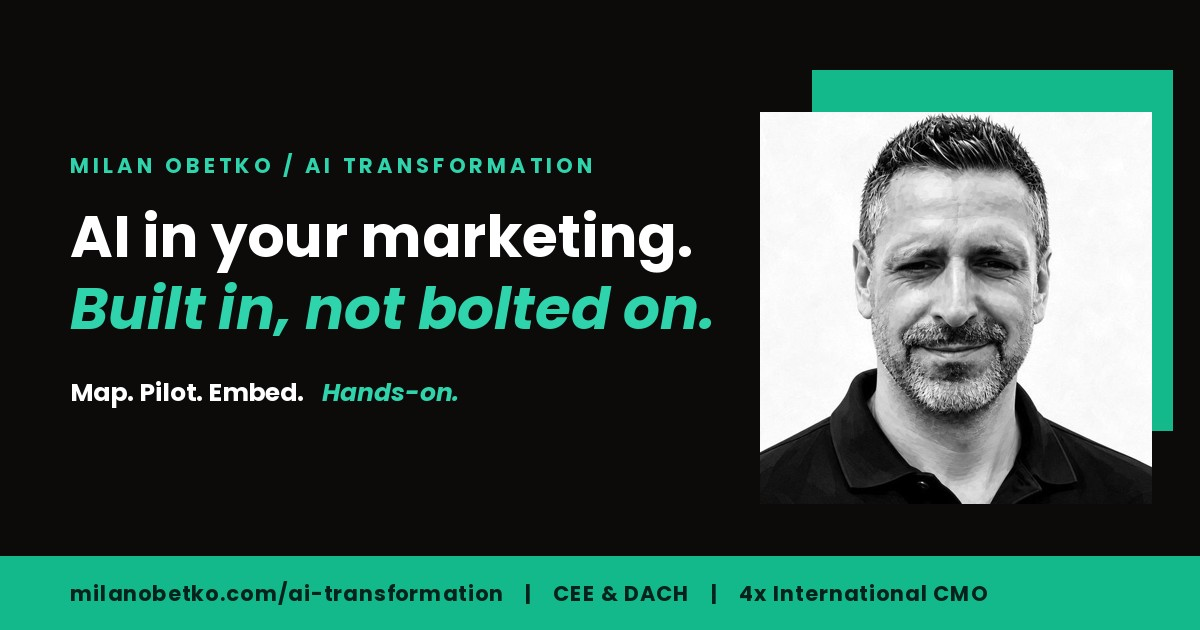
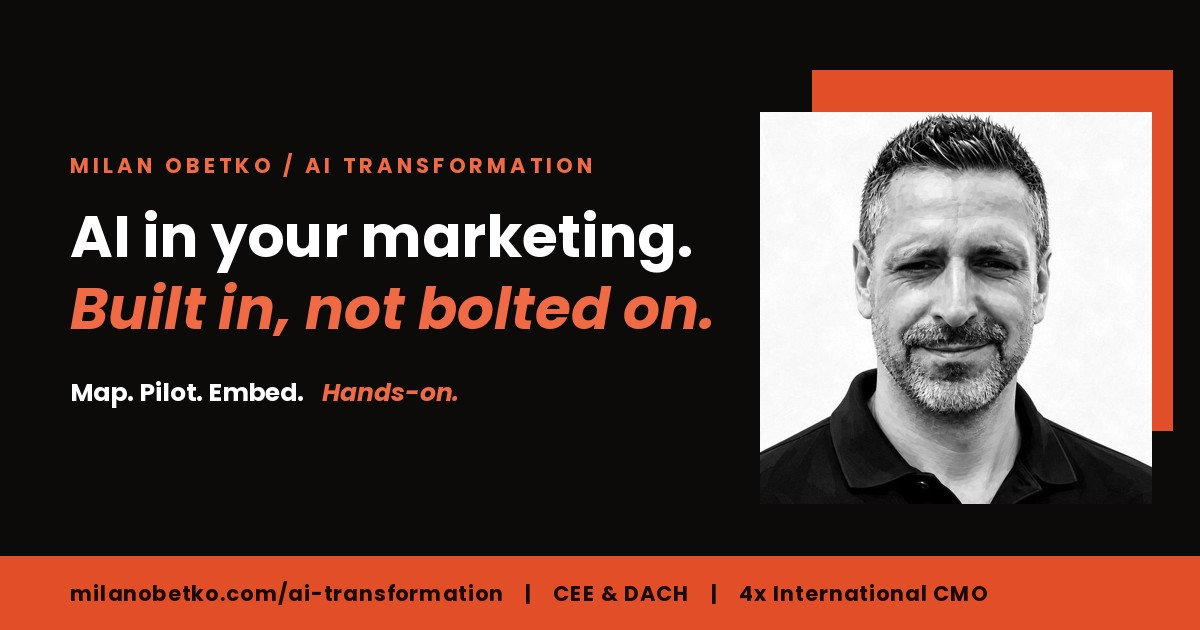
Recolor /ai-transformation to vivid orange-red (own shade vs ai-advisory)
Claude-Session: https://claude.ai/code/session_01ANGM1QMKMLK3w66FaUguEb

diff --git a/ai-transformation/index.html b/ai-transformation/index.html
@@ -147,7 +147,7 @@ h2{margin:0;font-size:clamp(36px,5vw,66px);line-height:.98;font-weight:800;lette
 @media (max-width:900px){.cards.three{grid-template-columns:1fr}}
 @media (min-width:901px){.cards.three .card .pr{flex-direction:column;align-items:flex-start;gap:8px}}
 /* AI Implementation band: the one build offer, set apart from the three advisory cards by scale. Same black ground; orange only on the rebuilt-process bar and the action. */
-.impl{margin-top:clamp(28px,4vw,40px);border:1px solid #5B564E;background:radial-gradient(90% 120% at 100% 0%,rgba(19,185,138,.13),rgba(19,185,138,0) 60%),#11100F;color:var(--white)}
+.impl{margin-top:clamp(28px,4vw,40px);border:1px solid #5B564E;background:radial-gradient(90% 120% at 100% 0%,rgba(226,78,40,.13),rgba(226,78,40,0) 60%),#11100F;color:var(--white)}
 .impl-grid{display:grid;grid-template-columns:minmax(0,1fr) minmax(0,1fr);gap:clamp(32px,6vw,88px);padding:clamp(28px,4.4vw,60px) clamp(24px,4.4vw,60px) clamp(28px,4vw,52px);align-items:end}
 .impl-txt{display:flex;flex-direction:column;gap:14px;min-width:0}
 .impl .k{margin:0;font-size:13px;font-weight:800;letter-spacing:.16em;text-transform:uppercase;color:var(--t3)}
@@ -162,8 +162,8 @@ h2{margin:0;font-size:clamp(36px,5vw,66px);line-height:.98;font-weight:800;lette
 .impl-fig .bar.now{background:#D9D4CA}
 .impl-fig .bar.ai{background:linear-gradient(var(--line),var(--line)) left bottom/100% 1px no-repeat}
 .impl-fig .ai-in{display:flex;width:50%;height:100%}
-.impl-fig .ai-in .s{flex:0 0 20%;background:var(--acc);box-shadow:0 0 26px rgba(19,185,138,.7),0 0 70px rgba(19,185,138,.35)}
-.impl-fig .ai-in .r{flex:1;background:repeating-linear-gradient(-45deg,rgba(19,185,138,.75) 0 2px,transparent 2px 8px)}
+.impl-fig .ai-in .s{flex:0 0 20%;background:var(--acc);box-shadow:0 0 26px rgba(226,78,40,.7),0 0 70px rgba(226,78,40,.35)}
+.impl-fig .ai-in .r{flex:1;background:repeating-linear-gradient(-45deg,rgba(226,78,40,.75) 0 2px,transparent 2px 8px)}
 .impl-fig .ticks{display:flex;justify-content:space-between;width:40%;margin-left:10%;font-size:15px;font-weight:800;color:var(--acct)}
 .impl-fig figcaption{margin-top:6px;padding-top:16px;border-top:1px solid var(--line);font-size:18px;line-height:1.45;font-weight:600;text-wrap:balance}
 .impl.go .ai-in{animation:implshrink 1.5s cubic-bezier(.2,.7,.1,1) .25s backwards}
@@ -221,7 +221,7 @@ footer a:hover{color:var(--acct)}
 .lp-canvas .d{font-size:23px;color:var(--t2)}
 .lp-canvas .p{margin-top:6px;display:inline-block;background:var(--acc);font-size:20px;font-weight:600;padding:7px 14px}
 .lp-canvas .hub{position:absolute;left:810px;top:435px;width:300px;height:300px;border-radius:50%;background:var(--acc);display:flex;flex-direction:column;align-items:center;justify-content:center;text-align:center;padding:30px}
-.lp-canvas .hub .h1{font-size:20px;font-weight:800;letter-spacing:.16em;text-transform:uppercase;color:#06241D}
+.lp-canvas .hub .h1{font-size:20px;font-weight:800;letter-spacing:.16em;text-transform:uppercase;color:#2E0F06}
 .lp-canvas .hub .h2{margin-top:8px;font-size:40px;line-height:1.02;font-weight:800;letter-spacing:-.02em}
 .lp-canvas .hub .h3{margin-top:10px;font-size:21px;line-height:1.25}
 .lp-m{display:none}
@@ -230,7 +230,7 @@ footer a:hover{color:var(--acct)}
 @media (max-width:800px){
  .lp-stage{display:none}.lp-m{display:block;margin-top:28px}
  .hubm{background:var(--acc);padding:22px 22px 24px}
- .hubm .h1{font-size:13px;font-weight:800;letter-spacing:.16em;text-transform:uppercase;color:#06241D}
+ .hubm .h1{font-size:13px;font-weight:800;letter-spacing:.16em;text-transform:uppercase;color:#2E0F06}
  .hubm .h2{margin-top:6px;font-size:32px;line-height:1.05;font-weight:800;letter-spacing:-.02em}
  .hubm .h3{margin-top:6px;font-size:17px}
  .lp-m ol{list-style:none;margin:0;padding:0;position:relative}
@@ -246,7 +246,7 @@ footer a:hover{color:var(--acct)}
 </style>
 <style>
 /* Theme: warm black, bone type, one orange. Orange marks the single focal thing in each view (the action, the loop's centre, the rebuilt process); everything else stays bone on black. */
-:root{--acc:#13B98A;--acct:#2FD3AC;--on:#05231C;--ink:#0C0B0A;--line:#39352F}
+:root{--acc:#E24E28;--acct:#F06B45;--on:#1A0A05;--ink:#0C0B0A;--line:#39352F}
 .eyebrow{color:var(--t3)}
 .card{background:#11100F;color:var(--white);border:1px solid var(--line)}
 .card .k{color:var(--t3)}
@@ -254,10 +254,10 @@ footer a:hover{color:var(--acct)}
 .card .pr{border-top:1px solid var(--line)}
 .lp-canvas .k,.lp-m .c .k{color:var(--t3)}
 .lp-canvas .p,.lp-m .c .p{background:transparent;box-shadow:inset 0 0 0 1.5px #6B655C;color:var(--t2)}
-.lp-canvas .hub{color:var(--on);box-shadow:0 0 90px rgba(19,185,138,.38)}
+.lp-canvas .hub{color:var(--on);box-shadow:0 0 90px rgba(226,78,40,.38)}
 .hubm{color:var(--on)}
 .lp-m ol::before{background:#6B655C}
-.contact{background:radial-gradient(70% 140% at 50% 0%,rgba(19,185,138,.16),rgba(19,185,138,0) 62%),#11100F;color:var(--white);border-top:1px solid var(--line)}
+.contact{background:radial-gradient(70% 140% at 50% 0%,rgba(226,78,40,.16),rgba(226,78,40,0) 62%),#11100F;color:var(--white);border-top:1px solid var(--line)}
 .contact .btn-white{background:var(--acc);color:var(--on)}
 .contact .btn-white:hover{filter:brightness(1.12)}
 /* Why now: a market drawn as a slowly turning network. Companies switch to orange one after another along their links; the one marked You stays bone. */
@@ -269,7 +269,7 @@ footer a:hover{color:var(--acct)}
 .now-leg{list-style:none;margin:26px 0 0;padding:0;display:flex;flex-wrap:wrap;gap:10px 28px;font-size:16px;font-weight:600;color:var(--t2)}
 .now-leg li{display:flex;align-items:center;gap:10px}
 .now-leg i{width:11px;height:11px;border-radius:50%;background:#D9D4CA}
-.now-leg .a i{background:var(--acc);box-shadow:0 0 12px rgba(19,185,138,.85)}
+.now-leg .a i{background:var(--acc);box-shadow:0 0 12px rgba(226,78,40,.85)}
 @media (max-width:900px){.now-grid{grid-template-columns:1fr}.now-grid .lead{max-width:none}}
 /* Race: one process today vs the same process with AI, run in the same time. */
 .race .fs{margin:-8px 0 6px;font-size:16px;line-height:1.45;color:var(--t2)}
@@ -282,19 +282,19 @@ footer a:hover{color:var(--acct)}
 .race .ai .cnt b{color:var(--acct)}
 .race .track{position:relative;height:12px;background:#26231F;overflow:hidden}
 .race .fill{position:absolute;left:0;top:0;bottom:0;width:0;background:#D9D4CA}
-.race .ai .fill{background:var(--acc);box-shadow:0 0 18px rgba(19,185,138,.75)}
+.race .ai .fill{background:var(--acc);box-shadow:0 0 18px rgba(226,78,40,.75)}
 .race .sq{display:flex;flex-wrap:wrap;gap:6px;min-height:14px}
 .race .sq i{width:14px;height:14px;border:1.5px solid #5B564E;transition:background .2s,border-color .2s,box-shadow .2s}
 .race .sq i.on{background:#D9D4CA;border-color:#D9D4CA}
-.race .ai .sq i.on{background:var(--acc);border-color:var(--acc);box-shadow:0 0 10px rgba(19,185,138,.85)}
+.race .ai .sq i.on{background:var(--acc);border-color:var(--acc);box-shadow:0 0 10px rgba(226,78,40,.85)}
 .race .spd{display:flex;align-items:center;gap:14px;margin-top:2px;font-size:15px;font-weight:700;color:var(--t2)}
 .race .spd input{flex:1;min-width:0;accent-color:var(--acc);height:28px;cursor:pointer}
 .race .spd output{min-width:3.2ch;font-size:18px;font-weight:800;color:var(--acct);text-align:right}
 /* Motion. Three moving things, each tied to what the section says: light across the top of the page, the exponential curve drawing itself next to the sentence that claims it, and a point travelling the loop. They run regardless of the reduced-motion setting, at the owner's request. */
 .hero{position:relative;overflow:hidden}
-.hero::before{content:"";position:absolute;left:-25%;right:-25%;top:-300px;height:440px;background:radial-gradient(50% 50% at 50% 50%,rgba(19,185,138,.42),rgba(19,185,138,0) 70%);pointer-events:none;animation:heroglow 16s ease-in-out infinite alternate}
+.hero::before{content:"";position:absolute;left:-25%;right:-25%;top:-300px;height:440px;background:radial-gradient(50% 50% at 50% 50%,rgba(226,78,40,.42),rgba(226,78,40,0) 70%);pointer-events:none;animation:heroglow 16s ease-in-out infinite alternate}
 @keyframes heroglow{from{transform:translateX(-22%)}to{transform:translateX(22%) scaleX(1.2)}}
-.hero::after{content:"";position:absolute;left:0;top:-52px;width:72%;height:104px;background:radial-gradient(50% 50% at 50% 50%,rgba(79,224,189,.9),rgba(19,185,138,.5) 32%,rgba(19,185,138,0) 70%);filter:blur(7px);pointer-events:none;animation:herostreak 14s ease-in-out infinite alternate}
+.hero::after{content:"";position:absolute;left:0;top:-52px;width:72%;height:104px;background:radial-gradient(50% 50% at 50% 50%,rgba(255,138,94,.9),rgba(226,78,40,.5) 32%,rgba(226,78,40,0) 70%);filter:blur(7px);pointer-events:none;animation:herostreak 14s ease-in-out infinite alternate}
 @keyframes herostreak{from{transform:translateX(-25%)}to{transform:translateX(64%)}}
 .hero .wrap{position:relative;z-index:1}
 /* Hero terrain: the company drawn as a landscape of its processes. Peaks rise and fall; the orange point keeps moving to the highest one, which is what the offer does: find where AI pays off most. */
@@ -310,34 +310,34 @@ footer a:hover{color:var(--acct)}
 .effc .ln{fill:none;stroke:#D9D4CA;stroke-width:2;stroke-linecap:round}
 .effc .ex{fill:none;stroke:var(--acc);stroke-width:3;stroke-linecap:round;stroke-linejoin:round}
 .effc .eg{fill:none;stroke:var(--acc);stroke-width:12;stroke-linecap:round;stroke-linejoin:round;opacity:.28;filter:blur(8px)}
-.effc .ed{fill:var(--acc);filter:drop-shadow(0 0 10px rgba(19,185,138,.95)) drop-shadow(0 0 26px rgba(19,185,138,.6))}
+.effc .ed{fill:var(--acc);filter:drop-shadow(0 0 10px rgba(226,78,40,.95)) drop-shadow(0 0 26px rgba(226,78,40,.6))}
 .effc.done .ed{animation:effpulse 3.2s ease-in-out infinite}
-.effc .ga{fill:#13B98A;opacity:0}
-.effc .pg{fill:none;stroke:#4FE0BD;stroke-width:12;stroke-linecap:round;filter:blur(7px);opacity:0}
-.effc .pu{fill:none;stroke:#BFF3E6;stroke-width:3.5;stroke-linecap:round;opacity:0}
+.effc .ga{fill:#E24E28;opacity:0}
+.effc .pg{fill:none;stroke:#FF8A5E;stroke-width:12;stroke-linecap:round;filter:blur(7px);opacity:0}
+.effc .pu{fill:none;stroke:#FFC3A8;stroke-width:3.5;stroke-linecap:round;opacity:0}
 .effc .sl{fill:none;stroke:rgba(236,232,225,.55);stroke-width:1;stroke-dasharray:3 4;opacity:0;transition:opacity .25s}
-.effc .sa{fill:var(--acc);filter:drop-shadow(0 0 10px rgba(19,185,138,.95));opacity:0;transition:opacity .25s}
+.effc .sa{fill:var(--acc);filter:drop-shadow(0 0 10px rgba(226,78,40,.95));opacity:0;transition:opacity .25s}
 .effc .sb{fill:#ECE8E1;opacity:0;transition:opacity .25s}
 .effc .gt{fill:#FFFFFF;font:700 15px Jost,sans-serif;text-anchor:end;opacity:0}
 @media (pointer:fine){.eff{cursor:crosshair}}
 @media (max-width:900px){.effc{touch-action:pan-y}}
-@keyframes effpulse{50%{filter:drop-shadow(0 0 16px rgba(19,185,138,1)) drop-shadow(0 0 44px rgba(19,185,138,.85))}}
+@keyframes effpulse{50%{filter:drop-shadow(0 0 16px rgba(226,78,40,1)) drop-shadow(0 0 44px rgba(226,78,40,.85))}}
 .effc .el{position:absolute;font-size:15px;font-weight:700;letter-spacing:.01em;white-space:nowrap;opacity:0;transition:opacity .6s ease}
 .effc.done .el{opacity:1}
 .effc .l1{right:0;color:var(--t3)}
 .effc .l2{right:26px;top:13px;color:var(--acct)}
 @media (max-width:900px){.eff p{padding-bottom:0}.effc{position:relative;left:auto;right:auto;height:190px;margin-top:22px}}
-.lp-canvas .trav{transform-origin:960px 585px;animation:lpspin 20s linear infinite;filter:drop-shadow(0 0 14px rgba(19,185,138,.95))}
+.lp-canvas .trav{transform-origin:960px 585px;animation:lpspin 20s linear infinite;filter:drop-shadow(0 0 14px rgba(226,78,40,.95))}
 @keyframes lpspin{to{transform:rotate(360deg)}}
 .lp-canvas .nd{animation:lpnode 20s linear infinite}
-@keyframes lpnode{0%,5%{fill:#13B98A}16%,96%{fill:#D9D4CA}100%{fill:#13B98A}}
+@keyframes lpnode{0%,5%{fill:#E24E28}16%,96%{fill:#D9D4CA}100%{fill:#E24E28}}
 .lp-canvas .lb .k{animation:lpk 20s linear infinite}
-@keyframes lpk{0%,7%{color:#2FD3AC}18%,96%{color:#C6C0B6}100%{color:#2FD3AC}}
+@keyframes lpk{0%,7%{color:#F06B45}18%,96%{color:#C6C0B6}100%{color:#F06B45}}
 .lp-canvas .nd2,.lp-canvas .lb:nth-of-type(2) .k{animation-delay:4s}
 .lp-canvas .nd3,.lp-canvas .lb:nth-of-type(3) .k{animation-delay:8s}
 .lp-canvas .nd4,.lp-canvas .lb:nth-of-type(4) .k{animation-delay:12s}
 .lp-canvas .nd5,.lp-canvas .lb:nth-of-type(5) .k{animation-delay:16s}
-.lp-m ol::after{content:"";position:absolute;left:13px;top:0;width:15px;height:15px;border-radius:50%;background:var(--acc);box-shadow:0 0 14px rgba(19,185,138,.95),0 0 34px rgba(19,185,138,.6);animation:lpdown 9s linear infinite}
+.lp-m ol::after{content:"";position:absolute;left:13px;top:0;width:15px;height:15px;border-radius:50%;background:var(--acc);box-shadow:0 0 14px rgba(226,78,40,.95),0 0 34px rgba(226,78,40,.6);animation:lpdown 9s linear infinite}
 @keyframes lpdown{from{top:0}to{top:calc(100% - 15px)}}
 
 </style>
@@ -354,7 +354,7 @@ footer a:hover{color:var(--acct)}
 </div>
 <div class="impl-foot"><div class="ipr"><b>Hands-on</b><span>scope &amp; price confirmed after the Booster</span></div><p class="iloop">Loop steps 03-04: Build, Measure</p><a class="ibtn" href="#contact">Let's talk</a></div>
 </article></div></section>
-<section class="sec alt" id="loop" aria-labelledby="h-loop"><div class="wrap"><div class="sec-head"><p class="eyebrow">How it works</p><h2 id="h-loop">The AI Value <span class="hl">Loop.</span></h2></div><p class="lead" style="max-width:56ch">One loop, from the first bottleneck to AI that runs across your marketing. Run hands-on with you.</p><div class="lp-stage" id="lpst"><div class="lp-canvas" id="lpcv"><svg width="1920" height="1080" viewBox="0 0 1920 1080"><circle cx="960" cy="585" r="300" fill="none" stroke="#1D1B18" stroke-width="30"/><path d="M1017.2 290.5 A300 300 0 0 1 1222.4 439.6" fill="none" stroke="#D9D4CA" stroke-width="4" marker-end="url(#ah)"/><path d="M1257.8 548.4 A300 300 0 0 1 1179.4 789.6" fill="none" stroke="#D9D4CA" stroke-width="4" marker-end="url(#ah)"/><path d="M1086.8 856.9 A300 300 0 0 1 833.2 856.9" fill="none" stroke="#D9D4CA" stroke-width="4" marker-end="url(#ah)"/><path d="M740.6 789.6 A300 300 0 0 1 662.2 548.4" fill="none" stroke="#D9D4CA" stroke-width="4" marker-end="url(#ah)"/><path d="M697.6 439.6 A300 300 0 0 1 902.8 290.5" fill="none" stroke="#D9D4CA" stroke-width="4" marker-end="url(#ah)"/><defs><marker id="ah" markerWidth="12" markerHeight="12" refX="9" refY="6" orient="auto" markerUnits="userSpaceOnUse"><path d="M1 1 L10 6 L1 11" fill="none" stroke="#D9D4CA" stroke-width="3" stroke-linecap="round" stroke-linejoin="round"/></marker></defs><circle class="nd nd1" cx="960.0" cy="285.0" r="16" fill="#D9D4CA"/><circle class="nd nd2" cx="1245.3" cy="492.3" r="16" fill="#D9D4CA"/><circle class="nd nd3" cx="1136.3" cy="827.7" r="16" fill="#D9D4CA"/><circle class="nd nd4" cx="783.7" cy="827.7" r="16" fill="#D9D4CA"/><circle class="nd nd5" cx="674.7" cy="492.3" r="16" fill="#D9D4CA"/><defs><linearGradient id="trl" gradientUnits="userSpaceOnUse" x1="767.2" y1="355.2" x2="960" y2="285"><stop offset="0" stop-color="#13B98A" stop-opacity="0"/><stop offset="1" stop-color="#13B98A"/></linearGradient></defs><g class="trav"><path d="M767.2 355.2 A300 300 0 0 1 960 285" fill="none" stroke="url(#trl)" stroke-width="7" stroke-linecap="round"/><circle cx="960" cy="285" r="13" fill="#13B98A"/></g></svg>
+<section class="sec alt" id="loop" aria-labelledby="h-loop"><div class="wrap"><div class="sec-head"><p class="eyebrow">How it works</p><h2 id="h-loop">The AI Value <span class="hl">Loop.</span></h2></div><p class="lead" style="max-width:56ch">One loop, from the first bottleneck to AI that runs across your marketing. Run hands-on with you.</p><div class="lp-stage" id="lpst"><div class="lp-canvas" id="lpcv"><svg width="1920" height="1080" viewBox="0 0 1920 1080"><circle cx="960" cy="585" r="300" fill="none" stroke="#1D1B18" stroke-width="30"/><path d="M1017.2 290.5 A300 300 0 0 1 1222.4 439.6" fill="none" stroke="#D9D4CA" stroke-width="4" marker-end="url(#ah)"/><path d="M1257.8 548.4 A300 300 0 0 1 1179.4 789.6" fill="none" stroke="#D9D4CA" stroke-width="4" marker-end="url(#ah)"/><path d="M1086.8 856.9 A300 300 0 0 1 833.2 856.9" fill="none" stroke="#D9D4CA" stroke-width="4" marker-end="url(#ah)"/><path d="M740.6 789.6 A300 300 0 0 1 662.2 548.4" fill="none" stroke="#D9D4CA" stroke-width="4" marker-end="url(#ah)"/><path d="M697.6 439.6 A300 300 0 0 1 902.8 290.5" fill="none" stroke="#D9D4CA" stroke-width="4" marker-end="url(#ah)"/><defs><marker id="ah" markerWidth="12" markerHeight="12" refX="9" refY="6" orient="auto" markerUnits="userSpaceOnUse"><path d="M1 1 L10 6 L1 11" fill="none" stroke="#D9D4CA" stroke-width="3" stroke-linecap="round" stroke-linejoin="round"/></marker></defs><circle class="nd nd1" cx="960.0" cy="285.0" r="16" fill="#D9D4CA"/><circle class="nd nd2" cx="1245.3" cy="492.3" r="16" fill="#D9D4CA"/><circle class="nd nd3" cx="1136.3" cy="827.7" r="16" fill="#D9D4CA"/><circle class="nd nd4" cx="783.7" cy="827.7" r="16" fill="#D9D4CA"/><circle class="nd nd5" cx="674.7" cy="492.3" r="16" fill="#D9D4CA"/><defs><linearGradient id="trl" gradientUnits="userSpaceOnUse" x1="767.2" y1="355.2" x2="960" y2="285"><stop offset="0" stop-color="#E24E28" stop-opacity="0"/><stop offset="1" stop-color="#E24E28"/></linearGradient></defs><g class="trav"><path d="M767.2 355.2 A300 300 0 0 1 960 285" fill="none" stroke="url(#trl)" stroke-width="7" stroke-linecap="round"/><circle cx="960" cy="285" r="13" fill="#E24E28"/></g></svg>
 <div class="lb" style="left:660px;top:95px;width:600px;text-align:center;align-items:center"><div class="k">01  FIND</div><div class="t">Find the bottleneck</div><div class="d">Where AI pays off most</div><div class="p">AI Value Booster</div></div><div class="lb" style="left:1289px;top:440px;width:520px;text-align:left;align-items:flex-start"><div class="k">02  PRIORITISE</div><div class="t">Prioritise by return</div><div class="d">What to build first</div><div class="p">AI Value Booster</div></div><div class="lb" style="left:1200px;top:822px;width:520px;text-align:left;align-items:flex-start"><div class="k">03  BUILD & DEPLOY</div><div class="t">Build and deploy</div><div class="d">Systems and processes that run</div><div class="p">Pilot &amp; embed</div></div><div class="lb" style="left:200px;top:822px;width:520px;text-align:right;align-items:flex-end"><div class="k">04  MEASURE & IMPROVE</div><div class="t">Measure and improve</div><div class="d">Results tracked, systems tuned</div><div class="p">Pilot &amp; embed</div></div><div class="lb" style="left:111px;top:440px;width:520px;text-align:right;align-items:flex-end"><div class="k">05  SPREAD</div><div class="t">Spread across the team</div><div class="d">Everyone works the new way</div><div class="p">Pilot &amp; embed</div></div>
 <div class="hub"><div class="h1">At the centre</div><div class="h2">You + me</div><div class="h3">Hands-on, leading the loop</div></div>
 </div></div><div class="lp-m"><div class="hubm"><div class="h1">At the centre</div><div class="h2">You + me</div><div class="h3">Hands-on, leading the loop</div></div><ol><li><span class="n">01</span><div class="c"><div class="k">01  FIND</div><div class="t">Find the bottleneck</div><div class="d">Where AI pays off most</div><div class="p">AI Value Booster</div></div></li><li><span class="n">02</span><div class="c"><div class="k">02  PRIORITISE</div><div class="t">Prioritise by return</div><div class="d">What to build first</div><div class="p">AI Value Booster</div></div></li><li><span class="n">03</span><div class="c"><div class="k">03  BUILD &amp; DEPLOY</div><div class="t">Build and deploy</div><div class="d">Systems and processes that run</div><div class="p">Pilot &amp; embed</div></div></li><li><span class="n">04</span><div class="c"><div class="k">04  MEASURE &amp; IMPROVE</div><div class="t">Measure and improve</div><div class="d">Results tracked, systems tuned</div><div class="p">Pilot &amp; embed</div></div></li><li><span class="n">05</span><div class="c"><div class="k">05  SPREAD</div><div class="t">Spread across the team</div><div class="d">Everyone works the new way</div><div class="p">Pilot &amp; embed</div></div></li></ol><p class="back">Then back to 01, with the next bottleneck.</p></div></div></section>
@@ -377,14 +377,14 @@ x.strokeStyle='rgba(217,212,202,'+(.07+.24*fade).toFixed(3)+')';x.lineWidth=1;x.
 var p1=[],p2=[];for(c=0;c<C;c++){k=j*C+c;if(px[k]<-80||px[k]>W+80)continue;if(c<C-1){h=(hh[k]+hh[k+1])/2;if(h>.2)p2.push(k,k+1);else if(h>.07)p1.push(k,k+1)}h=(hh[k]+hh[k-C])/2;if(h>.2)p2.push(k,k-C);else if(h>.07)p1.push(k,k-C)}
 if(p1.length){x.beginPath();for(i=0;i<p1.length;i+=2){x.moveTo(px[p1[i]],py[p1[i]]);x.lineTo(px[p1[i+1]],py[p1[i+1]])}x.strokeStyle='rgba(236,232,225,'+(.34*fade).toFixed(3)+')';x.stroke()}
 if(p2.length){x.beginPath();for(i=0;i<p2.length;i+=2){x.moveTo(px[p2[i]],py[p2[i]]);x.lineTo(px[p2[i+1]],py[p2[i+1]])}x.strokeStyle='rgba(236,232,225,'+(.8*fade).toFixed(3)+')';x.stroke()}
-if(Math.abs(wz-zs)<D*.5){x.beginPath();row(j);x.strokeStyle='rgba(19,185,138,'+(.8*fade).toFixed(3)+')';x.lineWidth=1.6;x.stroke()}}
+if(Math.abs(wz-zs)<D*.5){x.beginPath();row(j);x.strokeStyle='rgba(226,78,40,'+(.8*fade).toFixed(3)+')';x.lineWidth=1.6;x.stroke()}}
 x.beginPath();row(0);x.strokeStyle='rgba(217,212,202,.26)';x.lineWidth=1;x.stroke();
 var sx,sy,g;for(i=0;i<B.length;i++){if(i===top)continue;b=B[i];h=ht(b.x,b.z,t);sx=W/2+f*b.x/b.z;sy=hz+f*(CH-h)/b.z;x.beginPath();x.arc(sx,sy,2.6,0,6.3);x.fillStyle='rgba(236,232,225,.75)';x.fill()}
 b=PB.A>.2?PB:B[top];if(mx===null||red){mx=b.x;mz=b.z}else{var ms=b===PB?.16:.04;mx+=(b.x-mx)*ms;mz+=(b.z-mz)*ms}
 h=ht(mx,mz,t);sx=W/2+f*mx/mz;sy=hz+f*(CH-h)/mz;
-g=x.createRadialGradient(sx,sy,0,sx,sy,44);g.addColorStop(0,'rgba(19,185,138,.6)');g.addColorStop(1,'rgba(19,185,138,0)');x.fillStyle=g;x.beginPath();x.arc(sx,sy,44,0,6.3);x.fill();
-x.beginPath();x.arc(sx,sy,5.5,0,6.3);x.fillStyle='#2FD3AC';x.fill();
-var sm=W<620,L=sm?36:50;x.beginPath();x.moveTo(sx,sy-10);x.lineTo(sx,sy-L);x.strokeStyle='rgba(47,211,172,.9)';x.lineWidth=1;x.stroke();
+g=x.createRadialGradient(sx,sy,0,sx,sy,44);g.addColorStop(0,'rgba(226,78,40,.6)');g.addColorStop(1,'rgba(226,78,40,0)');x.fillStyle=g;x.beginPath();x.arc(sx,sy,44,0,6.3);x.fill();
+x.beginPath();x.arc(sx,sy,5.5,0,6.3);x.fillStyle='#F06B45';x.fill();
+var sm=W<620,L=sm?36:50;x.beginPath();x.moveTo(sx,sy-10);x.lineTo(sx,sy-L);x.strokeStyle='rgba(240,107,69,.9)';x.lineWidth=1;x.stroke();
 x.font='700 '+(sm?12:14)+'px Jost,sans-serif';x.textAlign='center';x.textBaseline='alphabetic';x.fillStyle='#ECE8E1';x.fillText('Where AI pays off most',Math.max(86,Math.min(W>900?W*.6:W-86,sx)),sy-L-8)}
 function size(){var r=cv.getBoundingClientRect(),d=Math.min(2,window.devicePixelRatio||1);W=r.width;H=r.height;if(!W||!H)return;cv.width=Math.round(W*d);cv.height=Math.round(H*d);x.setTransform(d,0,0,d,0,0);var sm=W<620;D=sm?.1:.15;R=sm?37:25;f=H*.8*Z0/CH;hz=Math.max(H*.2,(sm?36:50)+30);var xm=W/2*3/f*1.12;C=Math.ceil(2*xm/D)+1;X0=-(C-1)*D/2;for(var i=0;i<B.length;i++)B[i].x=B[i].u*(W/2)*B[i].z/f;mx=null;if(red)draw(7)}
 function loop(ts){raf=0;if(!on||document.hidden)return;draw(ts/1000);raf=requestAnimationFrame(loop)}
@@ -411,17 +411,17 @@ function cl(v){return v<0?0:v>1?1:v}
 function draw(ct){if(!W||!H)return;lastCt=ct;var i,a,b,c=cyc,fk=ct>c.end+c.hold?cl(1-(ct-c.end-c.hold)/c.fade):1,ca=Math.cos(ang),sa=Math.sin(ang),ct2=Math.cos(tilt),st2=Math.sin(tilt),cx=W/2,cy=H/2,ya=youT===null?0:cl((ct-youT)/.4)*fk;
 for(i=0;i<N;i++){var p=P[i],x1=p.x*ca+p.z*sa,z1=-p.x*sa+p.z*ca,y2=p.y*ct2-z1*st2,z2=p.y*st2+z1*ct2,k=3.4/(3.4+z2);Q[i]={x:cx+x1*S*k,y:cy+y2*S*k,k:k,z:z2,f:cl((1.35-z2)/2.7),a:i&&c.at[i]>=0?cl((ct-c.at[i])/.35)*fk:0,i:i}}
 Q[0].a=ya;x.clearRect(0,0,W,H);x.lineCap='round';
-for(i=0;i<L.length;i++){a=Q[L[i][0]];b=Q[L[i][1]];var f=(a.f+b.f)/2,la=Math.min(a.a,b.a);x.beginPath();x.moveTo(a.x,a.y);x.lineTo(b.x,b.y);x.lineWidth=1;x.strokeStyle='rgba(217,212,202,'+(.08+.2*f).toFixed(3)+')';x.stroke();if(la>0){x.strokeStyle='rgba(19,185,138,'+(la*(.25+.5*f)).toFixed(3)+')';x.stroke()}}
-if(fk===1)for(i=1;i<N;i++){if(c.par[i]<0)continue;var pr=(ct-(c.at[i]-STEP))/STEP;if(pr<=0||pr>=1)continue;a=Q[c.par[i]];b=Q[i];var hx=a.x+(b.x-a.x)*pr,hy=a.y+(b.y-a.y)*pr;x.beginPath();x.moveTo(a.x,a.y);x.lineTo(hx,hy);x.lineWidth=1.8;x.strokeStyle='rgba(47,211,172,.95)';x.stroke();var g0=x.createRadialGradient(hx,hy,0,hx,hy,14);g0.addColorStop(0,'rgba(79,224,189,.9)');g0.addColorStop(1,'rgba(19,185,138,0)');x.fillStyle=g0;x.beginPath();x.arc(hx,hy,14,0,6.3);x.fill()}
+for(i=0;i<L.length;i++){a=Q[L[i][0]];b=Q[L[i][1]];var f=(a.f+b.f)/2,la=Math.min(a.a,b.a);x.beginPath();x.moveTo(a.x,a.y);x.lineTo(b.x,b.y);x.lineWidth=1;x.strokeStyle='rgba(217,212,202,'+(.08+.2*f).toFixed(3)+')';x.stroke();if(la>0){x.strokeStyle='rgba(226,78,40,'+(la*(.25+.5*f)).toFixed(3)+')';x.stroke()}}
+if(fk===1)for(i=1;i<N;i++){if(c.par[i]<0)continue;var pr=(ct-(c.at[i]-STEP))/STEP;if(pr<=0||pr>=1)continue;a=Q[c.par[i]];b=Q[i];var hx=a.x+(b.x-a.x)*pr,hy=a.y+(b.y-a.y)*pr;x.beginPath();x.moveTo(a.x,a.y);x.lineTo(hx,hy);x.lineWidth=1.8;x.strokeStyle='rgba(240,107,69,.95)';x.stroke();var g0=x.createRadialGradient(hx,hy,0,hx,hy,14);g0.addColorStop(0,'rgba(255,138,94,.9)');g0.addColorStop(1,'rgba(226,78,40,0)');x.fillStyle=g0;x.beginPath();x.arc(hx,hy,14,0,6.3);x.fill()}
 var O=Q.slice().sort(function(m,n){return n.z-m.z}),rb=Math.max(2.6,S*.026);
 for(i=0;i<N;i++){var q=O[i],r=rb*P[q.i].r*q.k;
 if(q.i===0){youR=r;var pu=ct>c.end&&fk===1&&!ya?((ct-c.end)%1.6)/1.6:-1;if(pu>=0){x.beginPath();x.arc(q.x,q.y,r+6+pu*30,0,6.3);x.strokeStyle='rgba(236,232,225,'+(.55*(1-pu)).toFixed(3)+')';x.lineWidth=1.2;x.stroke()}
-x.beginPath();x.arc(q.x,q.y,r,0,6.3);x.fillStyle='#FFFFFF';x.fill();if(ya){var gy=x.createRadialGradient(q.x,q.y,0,q.x,q.y,r*5);gy.addColorStop(0,'rgba(19,185,138,'+(.6*ya).toFixed(3)+')');gy.addColorStop(1,'rgba(19,185,138,0)');x.fillStyle=gy;x.beginPath();x.arc(q.x,q.y,r*5,0,6.3);x.fill();x.beginPath();x.arc(q.x,q.y,r,0,6.3);x.fillStyle='rgba(33,196,153,'+ya.toFixed(3)+')';x.fill();var by=(ct-youT)/.8;if(by>0&&by<1){x.beginPath();x.arc(q.x,q.y,r+by*36,0,6.3);x.strokeStyle='rgba(47,211,172,'+(.85*(1-by)).toFixed(3)+')';x.lineWidth=1.4;x.stroke()}}x.beginPath();x.arc(q.x,q.y,r+6,0,6.3);x.strokeStyle=ya>.5?'rgba(47,211,172,.95)':'rgba(236,232,225,.85)';x.lineWidth=1.2;x.stroke();
+x.beginPath();x.arc(q.x,q.y,r,0,6.3);x.fillStyle='#FFFFFF';x.fill();if(ya){var gy=x.createRadialGradient(q.x,q.y,0,q.x,q.y,r*5);gy.addColorStop(0,'rgba(226,78,40,'+(.6*ya).toFixed(3)+')');gy.addColorStop(1,'rgba(226,78,40,0)');x.fillStyle=gy;x.beginPath();x.arc(q.x,q.y,r*5,0,6.3);x.fill();x.beginPath();x.arc(q.x,q.y,r,0,6.3);x.fillStyle='rgba(232,94,51,'+ya.toFixed(3)+')';x.fill();var by=(ct-youT)/.8;if(by>0&&by<1){x.beginPath();x.arc(q.x,q.y,r+by*36,0,6.3);x.strokeStyle='rgba(240,107,69,'+(.85*(1-by)).toFixed(3)+')';x.lineWidth=1.4;x.stroke()}}x.beginPath();x.arc(q.x,q.y,r+6,0,6.3);x.strokeStyle=ya>.5?'rgba(240,107,69,.95)':'rgba(236,232,225,.85)';x.lineWidth=1.2;x.stroke();
 x.font='700 '+(W<420?14:16)+'px Jost,sans-serif';x.textBaseline='middle';x.textAlign='left';x.fillStyle='#FFFFFF';x.fillText(ya>.5?'You, on AI':'You',q.x+r+13,q.y+1);continue}
-if(q.a>0){var g=x.createRadialGradient(q.x,q.y,0,q.x,q.y,r*4.6);g.addColorStop(0,'rgba(19,185,138,'+(.5*q.a*(.4+.6*q.f)).toFixed(3)+')');g.addColorStop(1,'rgba(19,185,138,0)');x.fillStyle=g;x.beginPath();x.arc(q.x,q.y,r*4.6,0,6.3);x.fill();
-var bu=(ct-c.at[q.i])/.7;if(fk===1&&bu>0&&bu<1){x.beginPath();x.arc(q.x,q.y,r+bu*22,0,6.3);x.strokeStyle='rgba(47,211,172,'+(.7*(1-bu)).toFixed(3)+')';x.lineWidth=1.2;x.stroke()}}
+if(q.a>0){var g=x.createRadialGradient(q.x,q.y,0,q.x,q.y,r*4.6);g.addColorStop(0,'rgba(226,78,40,'+(.5*q.a*(.4+.6*q.f)).toFixed(3)+')');g.addColorStop(1,'rgba(226,78,40,0)');x.fillStyle=g;x.beginPath();x.arc(q.x,q.y,r*4.6,0,6.3);x.fill();
+var bu=(ct-c.at[q.i])/.7;if(fk===1&&bu>0&&bu<1){x.beginPath();x.arc(q.x,q.y,r+bu*22,0,6.3);x.strokeStyle='rgba(240,107,69,'+(.7*(1-bu)).toFixed(3)+')';x.lineWidth=1.2;x.stroke()}}
 x.beginPath();x.arc(q.x,q.y,r,0,6.3);x.fillStyle='rgba(217,212,202,'+(.38+.62*q.f).toFixed(3)+')';x.fill();
-if(q.a>0){x.fillStyle='rgba(33,196,153,'+q.a.toFixed(3)+')';x.fill()}}}
+if(q.a>0){x.fillStyle='rgba(232,94,51,'+q.a.toFixed(3)+')';x.fill()}}}
 function size(){var r=cv.getBoundingClientRect(),d=Math.min(2,window.devicePixelRatio||1);W=r.width;H=r.height;if(!W||!H)return;cv.width=Math.round(W*d);cv.height=Math.round(H*d);x.setTransform(d,0,0,d,0,0);S=Math.min(W/2.95,H/2.25);if(red)draw(cyc.end+1)}
 function loop(ts){raf=0;if(!on||document.hidden){lt=null;return}var t=ts/1000;if(lt!==null&&!drag)ang+=(t-lt)*.11;lt=t;if(T0===null)T0=t;var ct=t-T0;if(ct>cyc.end+cyc.hold+cyc.fade){plan();T0=t;ct=0;youT=null}draw(ct);raf=requestAnimationFrame(loop)}
 function start(){if(!red&&!raf)raf=requestAnimationFrame(loop)}
